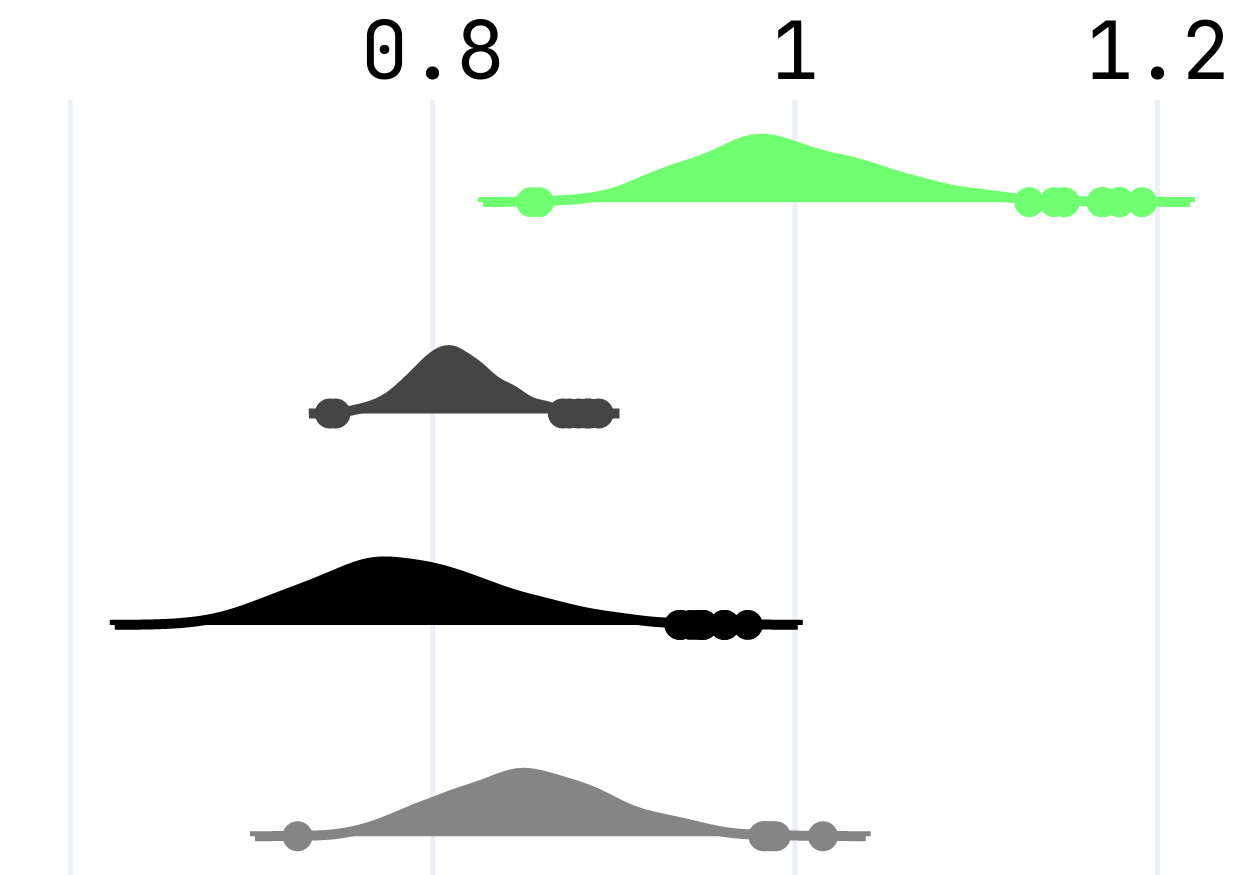
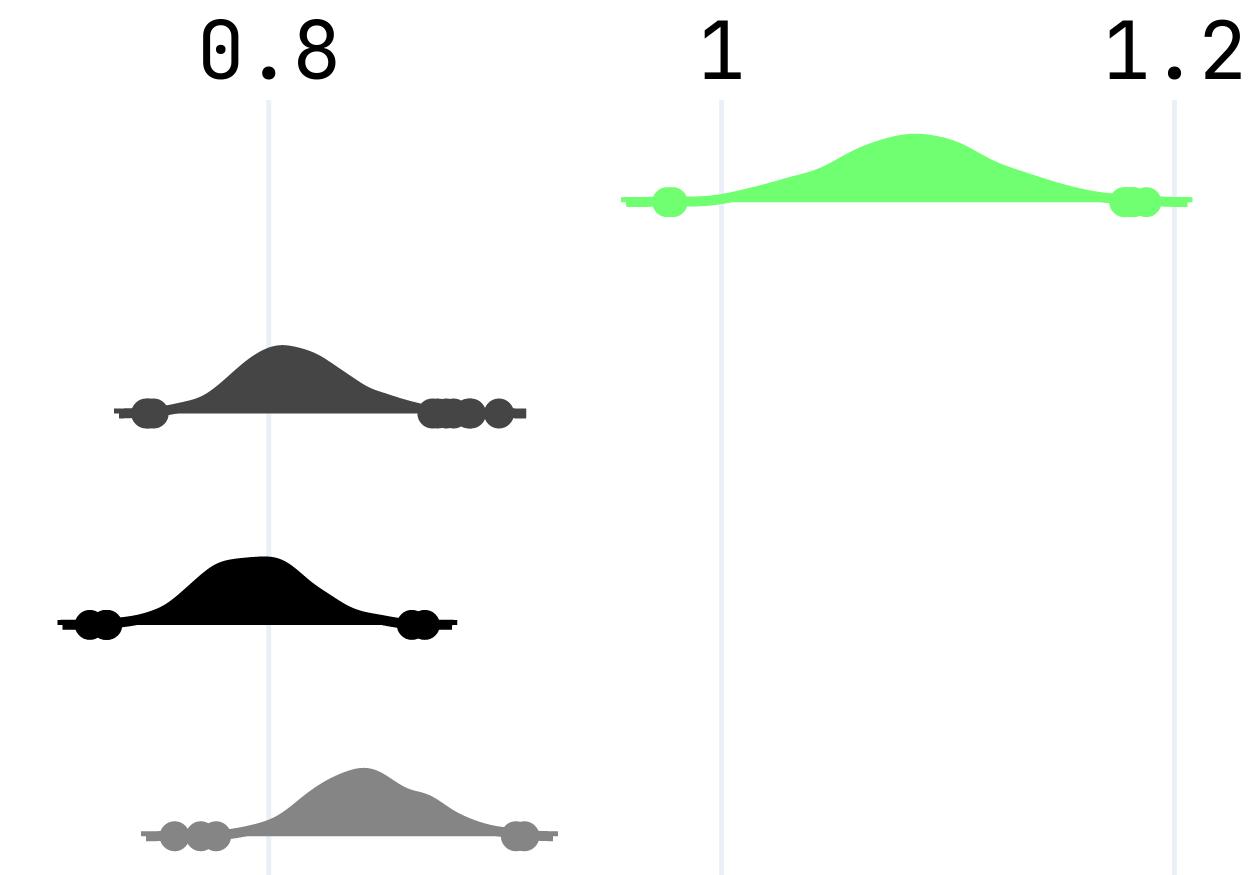
Updates from Overleaf

diff --git a/main.tex b/main.tex
@@ -74,46 +74,71 @@
 \section{Introduction}
 Audio synthesizers are musical instruments which utilize digital signal processing (DSP) functions for the creation of sound.  One method of sound-design with a synthesizer is approximating the characteristics of a desired (or target) sound with a synthesizer. This often requires the continual and iterative process of listening to the output of the synthesizer and modifying the parameters accordingly until satisfied. \textit{Sound-matching} is the term used for the automation of this process, which critically relies on automatic listening, i.e., a function for measuring similarity between the target sound and the output of the synthesizer. 
 
-The are major areas of weakness in current literature that require further research~\cite{salimi2025soundmatching}. One such issue is the lack of experiments pertaining to \OutDomain, i.e., use of target sounds which the audio synthesizer cannot reproduce. The overwhelming majority of current sound-matching works showcase experiments where the target sound is the output of the synthesizer itself, the true parameters are known, and the goal is to replicate the exact same target sound. This is not a realistic simulation of the manual approach, where the target sound is all but guaranteed to be from another source (be it synthesized or manually recorded) and the goal is not the direct replication of the target sound, but the imitation of a subset of its characteristics.
+The are major areas of weakness in current literature that require further research~\cite{salimi2025evaluating}. One such issue is the lack of experiments pertaining to \OutDomain, i.e., use of target sounds which the audio synthesizer cannot reproduce. The overwhelming majority of current sound-matching works showcase experiments where the target sound is the output of the synthesizer itself, the true parameters are known, and the goal is to replicate the exact same target sound. This is not a realistic simulation of the manual approach, where the target sound is all but guaranteed to be from another source (be it synthesized or manually recorded) and the goal is not the direct replication of the target sound, but the imitation of a subset of its characteristics.
 
-Defining success in out-of-domain sound-matching is difficult, as it calls for loss functions that \textit{only} measure differences in the characteristics of interest, which in turn can render the de facto, non-specific state-of-the-art (SOTA) methods of audio comparison such as multi-scale spectrogram loss (MSS) ~\cite{engel2020ddsp} ineffective. In a previous work, we presented a comparison of four different loss functions and their efficacy in sound-matching pipelines utilizing four different methods of synthesis~\cite{salimi2025soundmatching}, and saw that different loss functions are appropriate for different methods of synthesis~\cite{salimi2025soundmatching}; like the majority of previous works in sound-matching, the experiments were in-domain. Here, we expand previous work with a series of out-of-domain experiments where the synthesizer used to generate the target sounds are different from the one used for sound-matching. 
+Defining success in out-of-domain sound-matching is difficult, as it calls for loss functions that \textit{only} measure differences in the characteristics of interest, which in turn can render the de facto, non-specific state-of-the-art (SOTA) methods of audio comparison such as multi-scale spectrogram loss (MSS) ~\cite{engel2020ddsp} ineffective. In a previous work, we presented a comparison of four different loss functions and their efficacy in sound-matching pipelines utilizing four different methods of synthesis~\cite{salimi2025evaluating}, and saw that different loss functions are appropriate for different methods of synthesis~\cite{salimi2025evaluating}; like the majority of previous works in sound-matching, the experiments were in-domain. Here, we expand previous work with a series of out-of-domain experiments where the synthesizer used to generate the target sounds are different from the one used for sound-matching. 
 
 Parameter loss (or P-LOSS) has been frequently used in previous works for measuring success in sound-matching. Although P-Loss does not always match up with hearing tests, it is nonetheless useful. Here, we define the original target synthesizers such that their functionalities partially overlap with the output synthesizer, in this way, the experiments are out-of-domain but partial P-LOSS is still available as a measure of success. 
 
-
+\section{Background}
+\subsection{Defining Sound-Matching}
+ Formal definitions of sound-matching given in previous work require some modifications in order to be useful in OOD scenarios~\cite{vahidi2023mesostructures,han2023perceptual,salimi2025evaluating}. Adapting the definitions from Salimi \textit{et al.} gives us the following key components:
+\begin{itemize}
+    \item $g(\theta)$: A parametric audio synthesizer $g$ with parameters $\theta$.
+    \item $g^{t}(\theta^t)$: The synthesizer which outputs the target sound $x^t$. This synthesizer is either different from $g$, or it has non-overlapping parameter ranges.
+    \item $x_\theta$: The synthesizer output, $x_\theta = g(\theta)$”.
+    \item $x_0$: The target sound to be replicated or imitated. 
+    \item $\phi(\cdot)$: A representation (feature extraction) function mapping signals into a comparison space.
+    \item $L$: A loss function that measures distance between $x_\theta$ and $x_0$, typically via $L(\theta,x_0) = d(\phi(x_\theta), \phi(x_0))$ for some metric $d$.
+\end{itemize}
 
 \begin{figure}[ht]
     \centering
 \begin{tikzpicture}[node distance=2cm, auto]
 
-    % Nodes
-    \node (start) [text centered] {\( g (\hat{\theta}) = x \)};
-    \node (L) [above of=start,right of=start, text centered] {\( L(\hat{\theta},t) {\ \propto \ } \phi(x) - \phi(t) \)};
-    \node (optimize) [below of=L,right of=L, text centered] {Optimize $\hat{\theta}$};
-    \node (new_theta) [below of=optimize,right of = start, text centered] {New \( \hat{\theta} \)};
+% Nodes
+\node (start) [text centered] {\( g(\hat{\theta}) = x_{\hat{\theta}} \)};
+\node (L) [above of=start, right of=start, text centered] 
+    {\( L(\hat{\theta}, x_{0}) \propto \phi(x_{\hat{\theta}}) - \phi(x^t) \)};
+\node (optimize) [below of=L, right of=L, text centered] {Optimize $\hat{\theta}$};
+\node (new_theta) [below of=optimize, right of=start, text centered] {New \( \hat{\theta} \)};
 
-    % Highlight and arrow for the start node
-    \draw[->, very thick, red] (start) ++(-2,1.5) -- (start)
-        node[midway, below, align=center, sloped, color=red] {Start}
-        node[midway, above, align=center, sloped, color=red] {Random $\hat{\theta}$};
-        
-    % Arrows with multi-line labels
-    \draw[->, bend left] (start) to node[midway, right, align=center] {} (L);
-    \draw[->, bend left] (L) to node[midway, right, align=center] {} (optimize);
-    \draw[->, bend left] (optimize) to node[midway, below, align=center] {} (new_theta);
-    \draw[->, bend left] (new_theta) to node[midway, left, align=center] {} (start);
+% Highlight and arrow for the start node
+\draw[->, very thick, red] (start) ++(-2,1.5) -- (start)
+    node[midway, below, align=center, sloped, color=red] {Start}
+    node[midway, above, align=center, sloped, color=red] {Random $\hat{\theta}$};
+
+% Arrows with multi-line labels
+\draw[->, bend left] (start) to node[midway, right, align=center] {} (L);
+\draw[->, bend left] (L) to node[midway, right, align=center] {} (optimize);
+\draw[->, bend left] (optimize) to node[midway, below, align=center] {} (new_theta);
+\draw[->, bend left] (new_theta) to node[midway, left, align=center] {} (start);
 
 \end{tikzpicture}
-    \caption{ Iterative approach to sound design, as presented in~\cite{salimi2025soundmatching}}
+    % \caption{ Iterative approach to sound design. Synthesizer $g$ with arbitrary initialized parameters $\hat{\theta}$, creates sound $x$. The target sound $t$ is used as the goal. Parameters $\hat{\theta}$ are adjusted to minimize error (or loss) $L(\hat{\theta},t)$, where $L$ is proportional to the difference between the representations of $x$ and $t$. $\phi$ is the audio feature extractor, or representation function.}
+    \caption{ Iterative approach to sound design. Adapted to OOD scenarios~\cite{salimi2025evaluating}.}
     \label{fig:sound_design_loop_iterative}
 \end{figure}
 
 
+\
 % \subsection{Loss Functions}
-% In-domain experiments have shown that in a differentiable, iterative sound-matching setting, different loss functions appear to be appropriate for different methods of synthesis~\cite{salimi2025soundmatching}. This work is the further analysis of the interplay between the same loss functions and synthesizers in out-of-domain settings. 
+% In-domain experiments have shown that in a differentiable, iterative sound-matching setting, different loss functions appear to be appropriate for different methods of synthesis~\cite{salimi2025evaluating}. This work is the further analysis of the interplay between the same loss functions and synthesizers in out-of-domain settings. 
 
 
-\section{Partial P-Loss}
+
+
+
+\section{Methodology}
+\label{sec:experiment_setup}
+
+The iterative loop shown in Figure~\ref{fig:sound_design_loop_iterative} is the building block of our analysis. In each trial, we select a target synthesizer $g_t$, and generate the target sound $x$ with randomly set parameters $\theta_t$. We then select a synthesizer $g$--often not equal to $g_t$ since these are out-of-domain experiments--and loss function $L$, and the iterative loop is applied for 200 iterations, after which the the partial P-Loss for $\theta_199$ is recorded as the measure of the trial's success. What we call an experiment is 300 trials with the same $L$, $g$, and $g_t$, giving us 300 measures of success. We design sound-matching scenarios by keeping $g$ and $g_t$ the same, and conducting experiments with each $L$. This gives four distributions of partial P-Loss values for each loss function. Comparing the four distributions highlights the most appropriate loss function for a specific scenario. 
+
+Like previous work~\cite{salimi2025evaluating}, the distributions are upsampled to 1000 values using bootstrapping (1000 samples of the mean using 100\% of the values with replacement)~\cite{tibshirani1993introduction,chernick2011bootstrap}. For each scenario, the loss functions are ranked using the non-parametric Scott-Knott (\gls{NPSK}) test~\cite{tantithamthavorn2017mvt,tantithamthavorn2018optimization}, which ranks the loss functions from rank 1 (best, or highest distribution values) to maximum rank of 4, with the possibility of ties between distributions. 
+
+To summarize, a trial is 200 iterations of a loop with the final partial P-Loss used as the performance measure, an experiment is 300 trials, a scenario is 4 experiments with the same synthesizers and different loss functions. 
+
+\subsection{Partial P-Loss}
 \label{sec:partial_ploss}
 In out-of-domain sound-matching, many parameters of the target and imitator synthesizers do not correspond directly; for example, when the target employs a saw oscillator but the imitator uses noise, or when modulation structures differ.  
 To evaluate only the aspects of the signal that can meaningfully transfer across domains, we compute a \emph{partial parameter loss} (PPL).  
@@ -127,20 +152,8 @@ Parameters with no perceptual or structural correspondence (e.g., oscillator fre
 This enables a fair and interpretable comparison across mismatched synthesizers.
 
 
-
-\section{Methodology}
-\label{sec:experiment_setup}
-% loss functions, target vs imitator, training loop
-% For each combination of synthesizer program and loss function, 300 sound-matching experiments are conducted and the automatic evaluation evaluation values are recorded after 200 iterations of the sound-matching loop. From the 300 targets and outputs, we select 40 examples for manual ranking. 
-The iterative loop shown in Figure~\ref{fig:sound_design_loop_iterative} is the building block of our analysis. In each trial, we select a target synthesizer $g_t$, and generate the target sound $x$ with randomly set parameters $\theta_t$. We then select a synthesizer $g$\footnote{Often not equal to $g_t$ since these are out-of-domain experiments} and loss function $L$, and the iterative loop is applied for 200 iterations, after which the the partial P-Loss for $\theta_199$ is recorded as the measure of the trial's success. What we call an experiment is 300 trials with the same $L$, $g$, and $g_t$, giving us 300 measures of success. We design sound-matching scenarios by keeping $g$ and $g_t$ the same, and conducting experiments with each $L$. This gives four distributions of partial P-Loss values for each loss function. Comparing the four distributions highlights the most appropriate loss function for a specific scenario. 
-
-Like previous work~\cite{salimi2025soundmatching}, the distributions are upsampled to 1000 values using bootstrapping (1000 samples of the mean using 100\% of the values with replacement)~\cite{tibshirani1993introduction,chernick2011bootstrap}. For each scenario, the loss functions are ranked using the non-parametric Scott-Knott (\gls{NPSK}) test~\cite{tantithamthavorn2017mvt,tantithamthavorn2018optimization}, which ranks the loss functions from rank 1 (best, or highest distribution values) to maximum rank of 4, with the possibility of ties between distributions. 
-
-To summarize, a trial is 200 iterations of a loop with the final partial P-Loss used as the performance measure, an experiment is 300 trials, a scenario is 4 experiments with the same synthesizers and different loss functions. Testing scenarios with different characteristics illuminates the strength and weaknesses of the loss functions and shows whether the best performing loss function is variable in out-of-domain experiments.
-
-
 \subsection{Band Pass Matching}
-In this scenario, the two synthesizers are the application of band-passing to noise (\BPNoise) and saw waves (\BPSaw). Examples of these programs are given in Listings~\ref{lst:program0} and ~\ref{lst:program0_saw} respectively. Previously, we've seen that with in-domain sound-matching of \BPNoise, the loss functions utilizing spectrogram differences were the best performers, and speculated that this was related to the clear visibility of filter-cutoffs in a spectrogram. 
+In this scenario, the two synthesizers are the application of band-passing to noise (\BPNoise) and saw waves (\BPSaw). Examples of these programs are given in Listings~\ref{lst:program0} and ~\ref{lst:program0_saw} respectively. Previous observations have shown that with in-domain sound-matching of \BPNoise, the loss functions utilizing spectrogram differences were the best performers, speculating that this due to the clear visibility of filter-cutoffs in a spectrogram. 
  
  Here we use \BPSaw as the target synthesizer, and \BPNoise as the imitator. We define success in sound-matching here as the proximity of the imitator's high and low-pass cutoffs to that of the target. This allows for P-Loss to become an objective measure of success. With this objective, we see that \SIMSESpec is once again the clear best performing loss function.
 
@@ -241,14 +254,13 @@ The program here is a sine wave with a steady starting pitch for a random amount
 This scenario is identical to the first, except the delay is removed. As seen in Figure~\ref{fig:npsk_pitch_bends} (b), while there are noticeable shifts in the rankings, \JTFS remains the best performer, which is consistent with the results by Vahidi et al.~\cite{vahidi2023mesostructures}.
 
 \subsubsection{Pulsating Pitch-Bending}
-Vahidi et al. contended that \JTFS is the appropriate loss function for the capture of ``mesostructures'' (\todo{what does it mean?}). Previous work has shown that this is not always the case using in-domain scenarios~\cite{salimi2025soundmatching}. As shown in Listing~\ref{lst:pitchbendup_pulse}, this scenario adds a pulse to the pitch-bending synthesizer, such that the frequency is shifted upwards overall, but also pulsing up and down within a narrow range. This characteristic is fully within the definition of ``mesostructure'', yet \JTFS is tied in second with \SIMSESpec, behind \DTWEnv in first place. 
+Vahidi et al. contended that \JTFS is the appropriate loss function for the capture of ``mesostructures'' (\todo{what does it mean?}). Previous work has shown that this is not always the case using in-domain scenarios~\cite{salimi2025evaluating}. As shown in Listing~\ref{lst:pitchbendup_pulse}, this scenario adds a pulse to the pitch-bending synthesizer, such that the frequency is shifted upwards overall, but also pulsing up and down within a narrow range. This characteristic is fully within the definition of ``mesostructure'', yet \JTFS is tied in second with \SIMSESpec, behind \DTWEnv in first place. 
 
-% Another noticeably conclusion here is that all loss function perform much worse on the scale proximity scale
+% Another conclusion here is that all loss function perform much worse on the proximity scale
 
+Here, we can define success with P-Loss, that is, how well the \texttt{increase\_speed} and \texttt{starting\_pitch} parameters are approximated despite the delay in the pitch-bending onset. Figure~\ref{fig:npsk_pitch_bends} the right side shows that \JTFS is the best performing loss function, which is consistent with the previous findings by Vahidi \textit{et al.}~\cite{vahidi2023mesostructures}. 
 
-% Here, we can define success with P-Loss, that is, how well the \texttt{increase\_speed} and \texttt{starting\_pitch} parameters are approximated despite the delay in the pitch-bending onset. Figure~\ref{fig:npsk_pitch_bends} the right side shows that \JTFS is the best performing loss function, which is consistent with the previous findings by Vahidi \textit{et al.}~\cite{vahidi2023mesostructures}. 
-
-% An interesting follow-up experiment conducted was the \textit{in-domain} comparison of pitch-bending synthesizers \textit{without} delay. This is identical to the delayed pitch-bending experiment but setting the delay variable $\delta=0$. The left side of Figure~\ref{fig:npsk_pitch_bends} shows that \DTWEnv is the better performer in the in-domain scenario.
+An interesting follow-up experiment conducted was the \textit{in-domain} comparison of pitch-bending synthesizers \textit{without} delay. This is identical to the delayed pitch-bending experiment but setting the delay variable $\delta=0$. The left side of Figure~\ref{fig:npsk_pitch_bends} shows that \DTWEnv is the better performer in the in-domain scenario.
 
 \begin{lstlisting}[escapeinside={(*}{*)},caption={\PitchBendUp program. when an instance of the synthezier is created, $\delta$ is randomly assigned a value between 5000-30000 samples (for ``Delayed Pitch-bend) or set to 0 (No-delay Pitch-bend)}, label={lst:pitchbendup},language=Faust,float,floatplacement=!H,xleftmargin=1em,xrightmargin=0.5em,firstnumber=0,aboveskip=0em, belowskip=-1em]
 import("stdfaust.lib");
@@ -273,8 +285,11 @@ process = sineOsc(30 + increasing_pitch(increase_speed) + sawOsc(pulse_rate) * 5
 % Different forms of gradient analysis has been conducted in previous works~\cite{masuda2023improving,turian2020sorry,vahidi2023mesostructures}.
 
 
+
 \clearpage
 \bibliographystyle{alpha}
+
 \bibliography{references}
+
 
 \end{document}

diff --git a/evostrat_main.tex b/evostrat_main.tex
@@ -140,7 +140,7 @@ The transition from in-domain to OOD settings introduces a fundamental challenge
 
 The evaluation of OOD success further complicates the problem.  
 Metrics such as spectral L1 or mean-squared error are sensitive to global gain and timbral differences that may be irrelevant to perceived similarity~\cite{turian2020sorry,salimi2025evaluating}.  
-Even advanced feature-space losses like JTFS~\cite{anden2015joint} have shown inconsistent behavior when temporal or spectral structures are mismatched~\cite{salimi2025soundmatching}.  
+Even advanced feature-space losses like JTFS~\cite{anden2015joint} have shown inconsistent behavior when temporal or spectral structures are mismatched~\cite{salimi2025evaluating}.  
 Few studies have attempted to isolate which aspects of the signal should be compared when full waveform alignment is unattainable.
 
 \subsection{Gaps and Motivation}
@@ -309,7 +309,7 @@ Across all conditions, the DTW\_Envelope loss function performs best (see Fig.~\
 
 \input{extra_figures/am_scenarios}
 
-\subsection{Scenario 2: Pitch-Bending}
+\subsection{Scenario 3: Pitch-Bending}
 The final set of experiments examines pitch-bending synthesizers, adapted from chirplet-style models used in~\cite{vahidi2023mesostructures}.  
 Here, the target and imitator differ by a temporal offset, curvature, or modulation pattern in the pitch trajectory, creating various degrees of OOD mismatch.  
 The search parameters include the starting pitch (30–500~Hz) and the exponential rate of pitch increase (1–20 samples per step).  

diff --git a/extra_figures/pitch_bend_scenarios.tex b/extra_figures/pitch_bend_scenarios.tex
@@ -17,14 +17,14 @@
       \centering
       \includegraphics[width=\linewidth]{images/npsk_ood_P_Loss_6.png}
       \vspace{0.3em}
-      \footnotesize (a)~Delayed Pitch-bend
+      \footnotesize (a)~No Delay Pitch-bend
     \end{minipage}
     \hspace{0.015\textwidth}
     \begin{minipage}[t]{0.31\textwidth}
       \centering
       \includegraphics[width=\linewidth]{images/npsk_ood_P_Loss_4.png}
       \vspace{0.3em}
-      \footnotesize (b)~No-delay Pitch-bend
+      \footnotesize (b)~Delayed Pitch-bend
     \end{minipage}
     \hspace{0.015\textwidth}
     \begin{minipage}[t]{0.31\textwidth}
